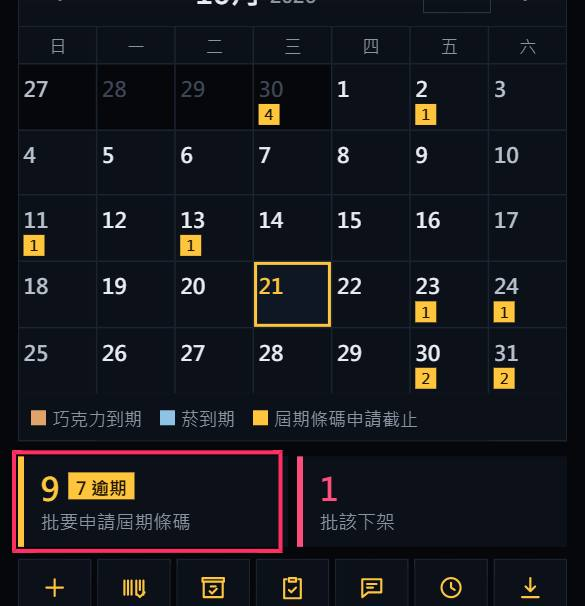
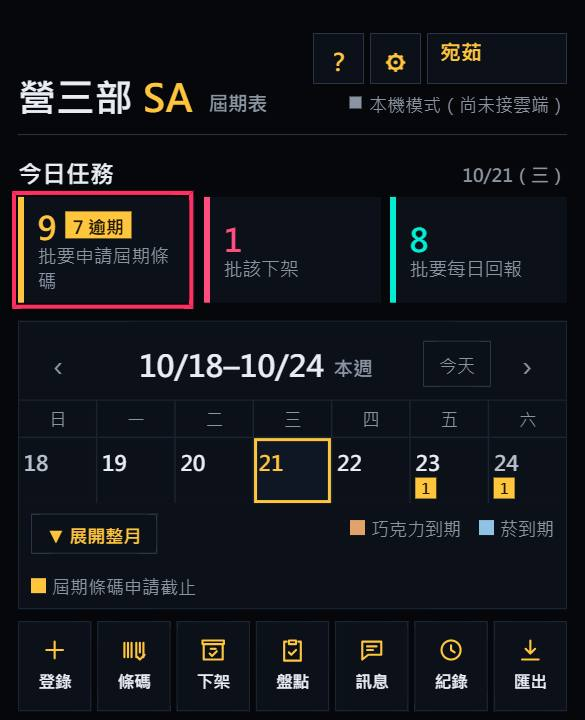
Add files via upload

diff --git a/index.html b/index.html
@@ -315,6 +315,36 @@ header{position:sticky;top:0;z-index:10;background:var(--ground);padding-top:8px
 .padd{width:56px;height:44px;background:var(--gold);color:#241900;font-weight:900;font-size:20px;flex:none}
 .gst .gimg{grid-column:1/-1;display:block;width:100%;height:auto;margin-top:6px;border:1px solid var(--edge);background:var(--ground);cursor:zoom-in;min-height:120px}
 .lb{z-index:80}
+.byl{margin:10px 0 8px;font-size:12.5px;color:var(--faint)}
+.byl b{color:var(--gold);font-size:15px;margin-right:8px}
+.bylbox{height:44px;display:flex;align-items:center;padding:0 10px;border:1px solid var(--edge);color:var(--gold);font-weight:900}
+.prow{grid-template-columns:26px 40px 1fr auto}
+.rgo{height:38px;padding:0 10px;font-weight:900;font-size:13px;border:1px solid var(--edge);white-space:nowrap}
+.rgo.qap{background:var(--gold);color:#241900;border-color:var(--gold)}
+.rgo.qp{background:var(--r1);color:#2b0411;border-color:var(--r1)}
+.rgo[data-ok]{background:#fff;color:#2b0411;border-color:#fff}
+.tdh{display:flex;justify-content:space-between;align-items:baseline;margin-top:12px;font-size:16px;font-weight:900}
+.tdh small{font-size:12px;color:var(--faint);font-weight:700}
+.todo{grid-template-columns:repeat(3,1fr);margin-top:6px}
+.todo button{padding:8px 9px}
+.todo .tr{border-color:var(--r3)}.todo .tr b{color:var(--r3)}
+.todo small{display:block;line-height:1.3}
+.ctg{border:1px solid var(--edge);padding:4px 10px;font-weight:900;color:var(--gold);font-size:12px;margin-right:auto}
+.ctab{display:none}
+@media(max-width:599px){
+ .ctab{display:grid;grid-template-columns:1fr 1fr;margin-top:8px;border:1px solid var(--edge)}
+ .ctab button{height:46px;font-weight:900;color:var(--faint);font-size:15px}
+ .ctab button em{font-style:normal;font-size:12px;margin-left:4px;opacity:.85}
+ .ctab button[aria-pressed="true"][data-t="07"]{background:var(--choc);color:#2a1406}
+ .ctab button[aria-pressed="true"][data-t="08"]{background:var(--smoke);color:#06202f}
+ .cols{grid-template-columns:1fr}
+ .cols[data-tab="07"] .col.s,.cols[data-tab="08"] .col.c{display:none}
+ .colhd{display:none}
+ .row{grid-template-columns:46px 1fr;gap:10px;padding:9px 10px}
+ .th{width:46px;height:46px}
+ .nm{font-size:15px}
+ .meta{font-size:13px}
+}
 </style>
 </head>
 <body>
@@ -324,6 +354,7 @@ header{position:sticky;top:0;z-index:10;background:var(--ground);padding-top:8px
     <div class="who"><div class="wrow"><button class="hbtn" id="help" aria-label="新手教學">？</button><button class="hbtn" id="setb" aria-label="設定">⚙</button><select id="who" aria-label="操作人"></select></div><div class="sync" id="sync"><i></i><span>本機</span></div></div>
   </header>
 
+  <div id="welcome"></div>
   <section class="cal" aria-label="月行事曆">
     <div class="calhd">
       <button class="nb" id="prev" aria-label="上個月">‹</button>
@@ -331,10 +362,9 @@ header{position:sticky;top:0;z-index:10;background:var(--ground);padding-top:8px
       <div style="display:flex;gap:4px;align-items:center"><button class="tday" id="tday">今天</button><button class="nb" id="next" aria-label="下個月">›</button></div>
     </div>
     <div class="grid" id="grid"></div>
-    <div class="calft"><span class="lc">巧克力到期</span><span class="ls">菸到期</span><span class="la">屆期條碼申請截止</span></div>
+    <div class="calft"><button class="ctg" id="ctg"></button><span class="lc">巧克力到期</span><span class="ls">菸到期</span><span class="la">屆期條碼申請截止</span></div>
   </section>
 
-  <div id="welcome"></div>
   <div class="tools">
     <button class="tb" id="tAdd" data-k="add"><svg viewBox="0 0 24 24"><path d="M12 5v14M5 12h14"/></svg>登錄</button>
     <button class="tb" id="tApply" data-k="apply"><svg viewBox="0 0 24 24"><path d="M4 6v12M7 6v12M10 6v12M14 6v12M17 6v8M20 6v12"/><path d="m15 18 2 2 4-4"/></svg>條碼</button>
@@ -355,6 +385,7 @@ header{position:sticky;top:0;z-index:10;background:var(--ground);padding-top:8px
   <div class="sum" id="sum"></div>
   <div class="search"><input id="q" type="search" placeholder="找品名、品號、品牌" aria-label="搜尋"></div>
 
+  <div class="ctab" id="ctab"><button data-t="07"><b>07</b> 巧克力<em id="ccn"></em></button><button data-t="08"><b>08</b> 菸類<em id="scn"></em></button></div>
   <div class="cols">
     <section class="col c" aria-label="07 大類 巧克力"><div class="colhd"><h3><b>07</b> 巧克力</h3><small id="cc"></small></div><div id="L"></div></section>
     <section class="col s" aria-label="08 大類 菸"><div class="colhd"><h3><b>08</b> 菸類</h3><small id="sc"></small></div><div id="R"></div></section>
@@ -393,11 +424,12 @@ let lots=[],logs=[],photos={};
 let DB=null,DL=null;
 const today=new Date();today.setHours(0,0,0,0);
 let view=new Date(today.getFullYear(),today.getMonth(),1);
+const wkOf=d=>addD(d,-d.getDay());let calOpen=false;try{calOpen=localStorage.getItem("sa_exp_cal")==="1"}catch(e){}let wk=wkOf(today);
 let sel=new Date(today);
 let mode="near",bucket=null,counting=false,draft={},q="",storeF="";
 let lastBy=localStorage.getItem("sa_exp_by")||"";
 let lastStore=localStorage.getItem("sa_exp_store")||"";
-const remember=by=>{lastBy=by;localStorage.setItem("sa_exp_by",by);const w=document.getElementById("who");if(w){if(w.value!==by)w.value=by;w.classList.toggle("need",!by)}};
+const remember=by=>{lastBy=by;localStorage.setItem("sa_exp_by",by);document.querySelectorAll(".bylv").forEach(e=>e.textContent=by||"未選");const w=document.getElementById("who");if(w){if(w.value!==by)w.value=by;w.classList.toggle("need",!by)}};
 
 /* ---------- storage：Google 試算表（Apps Script） ---------- */
 const API="https://script.google.com/macros/s/AKfycbxwsx9JJLaUBCJdC2WS5k9eKBrx1b5OHH1FhyA9XReiPYkMi2cek3Pvxswy2selR46l/exec",KEY="sa-exp-2026",LSK="sa_exp_cache_v1";
@@ -459,23 +491,27 @@ function nextApply(l){if(!live(l))return null;for(const k of [3,2,1]){const e=en
 /* ---------- calendar ---------- */
 function renderCal(){
   const y=view.getFullYear(),m=view.getMonth();
-  $("#mlabel").innerHTML=(m+1)+"月<small>"+y+"</small>";
-  const first=new Date(y,m,1),start=addD(first,-first.getDay());
+  $("#mlabel").innerHTML=calOpen?(m+1)+"月<small>"+y+"</small>":mdS(wk)+"–"+mdS(addD(wk,6))+"<small>"+(+wk===+wkOf(today)?"本週":"")+"</small>";
+  $("#ctg").textContent=calOpen?"▲ 收成一週":"▼ 展開整月";
+  const first=new Date(y,m,1),start=calOpen?addD(first,-first.getDay()):wk;
   const byDay={},bump=(k,t)=>{(byDay[k]=byDay[k]||{c:0,s:0,a:0})[t]++};
   lots.forEach(l=>{if(!live(l)||!inStore(l))return;bump(l.exp,l.cat==="07"?"c":"s");for(const k of [1,2,3]){if(!(l.apply&&l.apply[k])){const e=enterDate(l,k);if(e<pd(l.exp))bump(ymd(e),"a")}}});
   let h=W.split("").map(w=>`<div class="wk">${w}</div>`).join("");
-  for(let i=0;i<42;i++){
+  for(let i=0;i<(calOpen?42:7);i++){
     const d=addD(start,i),k=ymd(d),b=byDay[k];
-    if(i>=35&&d.getMonth()!==m)break;
-    const cls=["d",d.getMonth()!==m?"o":"",d.getDay()===0?"sun":"",d.getDay()===6?"sat":"",+d===+today?"today":"",+d===+sel?"sel":""].join(" ");
+    if(calOpen&&i>=35&&d.getMonth()!==m)break;
+    const cls=["d",calOpen&&d.getMonth()!==m?"o":"",d.getDay()===0?"sun":"",d.getDay()===6?"sat":"",+d===+today?"today":"",+d===+sel?"sel":""].join(" ");
     h+=`<button class="${cls}" data-d="${k}" aria-label="${k}"><span class="n">${d.getDate()}</span><span class="marks">${b&&b.c?`<span class="mk c">${b.c}</span>`:""}${b&&b.s?`<span class="mk s">${b.s}</span>`:""}${b&&b.a?`<span class="mk a">${b.a}</span>`:""}</span></button>`;
   }
   $("#grid").innerHTML=h;
 }
 $("#grid").onclick=e=>{const b=e.target.closest("[data-d]");if(!b)return;sel=pd(b.dataset.d);if(sel.getMonth()!==view.getMonth())view=new Date(sel.getFullYear(),sel.getMonth(),1);bucket=null;mode="near";render()};
-$("#prev").onclick=()=>{view=new Date(view.getFullYear(),view.getMonth()-1,1);renderCal()};
-$("#next").onclick=()=>{view=new Date(view.getFullYear(),view.getMonth()+1,1);renderCal()};
-$("#tday").onclick=()=>{sel=new Date(today);view=new Date(today.getFullYear(),today.getMonth(),1);bucket=null;render()};
+$("#prev").onclick=()=>{if(calOpen)view=new Date(view.getFullYear(),view.getMonth()-1,1);else wk=addD(wk,-7);renderCal()};
+$("#next").onclick=()=>{if(calOpen)view=new Date(view.getFullYear(),view.getMonth()+1,1);else wk=addD(wk,7);renderCal()};
+$("#ctg").onclick=()=>{calOpen=!calOpen;try{localStorage.setItem("sa_exp_cal",calOpen?"1":"0")}catch(e){}if(calOpen){const md=addD(wk,3);view=new Date(md.getFullYear(),md.getMonth(),1)}else wk=wkOf(sel);renderCal()};
+$("#tday").onclick=()=>{sel=new Date(today);wk=wkOf(today);view=new Date(today.getFullYear(),today.getMonth(),1);bucket=null;render()};
+let ctab="07";try{ctab=localStorage.getItem("sa_exp_tab")||"07"}catch(e){}
+$("#ctab").onclick=e=>{const b=e.target.closest("[data-t]");if(!b)return;ctab=b.dataset.t;try{localStorage.setItem("sa_exp_tab",ctab)}catch(e){}render()};
 $("#sseg").onclick=e=>{const b=e.target.closest("button");if(!b)return;storeF=b.dataset.s;render()};
 
 /* ---------- lists ---------- */
@@ -510,15 +546,15 @@ function render(){
   $("#sum").innerHTML=[1,2,3].map((i,k)=>`<button class="b${i}" data-b="${i}" aria-pressed="${mode==="near"&&bucket===i}"><b>${n[k]}</b><small>${["一個月內","一到兩個月","兩到三個月"][k]}</small></button>`).join("")+`<button class="b0" data-b="all" aria-pressed="${mode==="all"}"><b>${act.length}</b><small>全部在庫</small></button>`;
   const L=filtered("07"),R=filtered("08");
   $("#L").innerHTML=colHTML(L);$("#R").innerHTML=colHTML(R);
-  $("#cc").textContent=L.length+" 批";$("#sc").textContent=R.length+" 批";
+  $("#cc").textContent=L.length+" 批";$("#ccn").textContent=L.length+" 批";$("#scn").textContent=R.length+" 批";document.querySelector(".cols").dataset.tab=ctab;document.querySelectorAll("#ctab button").forEach(b=>b.setAttribute("aria-pressed",b.dataset.t===ctab));$("#sc").textContent=R.length+" 批";
   const dueN=lots.filter(l=>live(l)&&duePull(l)).length,apN=lots.filter(needApply).length,apL=lots.filter(l=>{const a=needApply(l);return a&&a.late}).length;
-  let w="";
+  let w="";const repN=lots.filter(l=>live(l)&&bkt(l,today)>=1&&bkt(l,today)<=3).length;
   const apNow=lots.filter(needApply).length;
-  if(lots.length)w=`<div class="todo"><button class="${apNow?"ta":"z"}" id="goapply" aria-pressed="${panelKey==="apply"}"><b>${apNow}${apL?`<em>${apL} 逾期</em>`:""}</b><small>${apNow?"批要申請屆期條碼":"條碼申請沒有待辦"}</small></button><button class="${dueN?"tp":"z"}" id="gopull" aria-pressed="${panelKey==="pull"}"><b>${dueN}</b><small>${dueN?"批該下架":"下架沒有待辦"}</small></button></div>`+(lots.some(l=>l.demo)?`<div class="demo-bar"><span>目前是示範資料，正式使用前請清掉</span><button id="undemo">清除示範資料</button></div>`:"");
+  if(lots.length)w=`<div class="tdh">今日任務<small>${mdS(today)}（${W[today.getDay()]}）</small></div><div class="todo"><button class="${apNow?"ta":"z"}" id="goapply" aria-pressed="${panelKey==="apply"}"><b>${apNow}${apL?`<em>${apL} 逾期</em>`:""}</b><small>${apNow?"批要申請屆期條碼":"條碼申請沒有待辦"}</small></button><button class="${dueN?"tp":"z"}" id="gopull" aria-pressed="${panelKey==="pull"}"><b>${dueN}</b><small>${dueN?"批該下架":"下架沒有待辦"}</small></button><button class="${repN?"tr":"z"}" id="gomsg" aria-pressed="${panelKey==="msg"}"><b>${repN}</b><small>${repN?"批要每日回報":"回報沒有待辦"}</small></button></div>`+(lots.some(l=>l.demo)?`<div class="demo-bar"><span>目前是示範資料，正式使用前請清掉</span><button id="undemo">清除示範資料</button></div>`:"");
   else if(!lots.length)w=`<div class="welcome"><b>還沒有任何效期資料</b>按下方「登錄」開始；巧克力可直接從 ${CAT.length} 項商品檔案挑選，附實品圖與售價。<br><button id="demo">先放幾筆示範資料看看</button></div>`;
   $("#welcome").innerHTML=w;
   const on=(id,f)=>{const b=$(id);if(b)b.onclick=f};
-  on("#gopull",()=>pullPanel(false,false));on("#goapply",()=>applyPanel(false,false));on("#demo",demo);on("#undemo",undemo);
+  on("#gopull",()=>pullPanel(false,false));on("#gomsg",()=>msgSheet(false));on("#goapply",()=>applyPanel(false,false));on("#demo",demo);on("#undemo",undemo);
   const chg=Object.keys(draft).filter(k=>{const l=lots.find(x=>x.id===k);return l&&+draft[k]!==l.qty}).length;
   const ct=$("#ctext");if(ct)ct.textContent=chg?`已改 ${chg} 批`:"尚未修改任何數量";
 }
@@ -553,7 +589,8 @@ function openSheet(h){$("#sheet").innerHTML=h;$("#mask").classList.add("on");con
 function closeSheet(){$("#mask").classList.remove("on")}
 let panelKey="";
 function openPanel(k,h,force,noScroll){const p=$("#panel");if(!force&&panelKey===k&&p.classList.contains("on")){closePanel();return false}if(panelKey==="count"&&k!=="count"){counting=false;draft={};render()}panelKey=k;p.innerHTML=h;p.classList.add("on");document.body.classList.add("pon");document.querySelectorAll(".tools .tb").forEach(b=>b.setAttribute("aria-pressed",b.dataset.k===k));const x=p.querySelector(".x");if(x)x.onclick=closePanel;syncTodo();if(!noScroll)jumpTo(p);return true}
-function syncTodo(){const a=$("#goapply"),b=$("#gopull");if(a)a.setAttribute("aria-pressed",panelKey==="apply");if(b)b.setAttribute("aria-pressed",panelKey==="pull")}
+$("#panel").addEventListener("click",e=>{const b=e.target.closest(".rgo");if(!b)return;e.preventDefault();e.stopPropagation();quick(b)});
+function syncTodo(){const a=$("#goapply"),b=$("#gopull");if(a)a.setAttribute("aria-pressed",panelKey==="apply");if(b)b.setAttribute("aria-pressed",panelKey==="pull");const c=$("#gomsg");if(c)c.setAttribute("aria-pressed",panelKey==="msg")}
 function jumpTo(el){requestAnimationFrame(()=>requestAnimationFrame(()=>{const sm=!matchMedia("(prefers-reduced-motion: reduce)").matches;try{el.scrollIntoView({behavior:sm?"smooth":"auto",block:"start"})}catch(e){el.scrollIntoView(true)}const off=(document.querySelector("header").offsetHeight||0)+8,y=el.getBoundingClientRect().top+window.scrollY-off;setTimeout(()=>{if(Math.abs(el.getBoundingClientRect().top-off)>40)window.scrollTo(0,y)},sm?450:0)}))}
 function closePanel(){const p=$("#panel");p.classList.remove("on");document.body.classList.remove("pon");p.innerHTML="";const wasCount=panelKey==="count";panelKey="";document.querySelectorAll(".tools .tb").forEach(b=>b.setAttribute("aria-pressed",false));syncTodo();if(wasCount){counting=false;draft={};mode="near";render()}}
 function refreshPanel(){if(panelKey==="pull")pullPanel(true,true);else if(panelKey==="apply")applyPanel(true,true)}
@@ -593,7 +630,7 @@ function addSheet(pre){
   <div class="f" id="phf" style="display:none"><label>照片（選填，拍一次之後同品名都會用）</label><input id="aph" type="file" accept="image/*" capture="environment" style="padding-top:9px"></div>
   <div class="f2"><div class="f"><label id="aexpl">有效日期</label><div class="ein"><input id="aexpt" inputmode="numeric" autocomplete="off" enterkeyhint="next"><button type="button" class="cal1" id="aexpb" aria-label="用日曆選">📅</button><input id="aexp" type="date" class="hid" tabindex="-1"><input id="aexpm" type="month" class="hid" tabindex="-1"></div><small class="ev" id="aexpv"></small></div><div class="f"><label>數量</label><input id="aqty" type="number" inputmode="numeric" min="1" value="1"></div></div>
   <div class="f2"><div class="f"><label>售價（選填）</label><input id="aprice" type="number" inputmode="numeric" min="0" placeholder="例：380" value="${pre&&pre.price||""}"></div><div class="f"><label>屆期折扣（選填）</label><select id="adisc">${discOpts(pre&&pre.disc)}</select></div></div>
-  <div class="f"><label>登錄人</label><select id="aby">${peopleOpts(lastBy)}</select></div>
+  <p class="byl">操作人：<b class="bylv">${esc(lastBy)||"未選"}</b><small>右上角可換人</small></p>
   <div class="hint" id="ahint"></div>
   <div class="go2"><button class="go" id="asave">存入，登下一批</button><button class="ghost" id="adone">存入並關閉</button></div>
   <div class="sess" id="asess"></div>`,!!pre))return;
@@ -630,9 +667,9 @@ function addSheet(pre){
   const renderSess=()=>{$("#asess").innerHTML=sess.length?`<div class="tier">這次已登 ${sess.length} 批</div>`+sess.map(x=>`<div class="it"><span>${x.store} ${x.cat==="07"?"🍫":"🚬"} ${esc(x.name)}</span><small>${fx(x)} × ${x.qty}</small></div>`).join(""):""};
   const reset=()=>{picked=null;newImg="";$("#aname").value="";$("#aqty").value=1;$("#aprice").value="";$("#aph").value="";showPicked();$("#aname").focus()};
   const save=async keep=>{
-    const store=segVal("ast"),name=$("#aname").value.trim(),exp=expVal(),qty=parseInt($("#aqty").value,10),by=$("#aby").value,price=parseInt($("#aprice").value,10)||"",disc=$("#adisc").value;
+    const store=segVal("ast"),name=$("#aname").value.trim(),exp=expVal(),qty=parseInt($("#aqty").value,10),by=lastBy,price=parseInt($("#aprice").value,10)||"",disc=$("#adisc").value;
     if(!keep&&!name&&sess.length)return closePanel();
-    if(!store)return toast("請選店別");if(!name)return toast("請填品名");if(!exp)return toast(cat==="07"?"請選有效日期":"請選有效年月");if(!(qty>0))return toast("數量要大於 0");if(!by)return toast("請選登錄人");
+    if(!store)return toast("請選店別");if(!name)return toast("請填品名");if(!exp)return toast(cat==="07"?"請選有效日期":"請選有效年月");if(!(qty>0))return toast("數量要大於 0");if(!by)return needWho();
     const nm=picked?picked.n:name,dup=lots.find(x=>live(x)&&x.store===store&&x.cat===cat&&x.name===nm&&x.exp===exp),sb=keep?$("#asave"):$("#adone");
     if(dup&&!sb.dataset.mg){clrMg();sb.dataset.mg=1;sb.dataset.lab=sb.textContent;sb.textContent=`合併成 ${dup.qty+qty} 個`;toast(`${store} 已有同品項同效期 ${dup.qty} 個，再按一次會合併`);return}
     clrMg();
@@ -663,7 +700,7 @@ function openLot(id){
   <div class="f"><label>店別</label>${storeSeg("est",l.store)}</div>
   <div class="f"><label>有效${l.cat==="08"?"年月":"日期"}（打錯可直接改）</label><input id="ee" inputmode="numeric" autocomplete="off" value="${fx(l)}"><small class="ev" id="eev"></small></div>
   <div class="f2"><div class="f"><label>數量</label><input id="eq" type="number" inputmode="numeric" min="0" value="${l.qty}"></div><div class="f"><label>售價</label><input id="ep" type="number" inputmode="numeric" min="0" value="${l.price||""}"></div></div>
-  <div class="f2"><div class="f"><label>屆期折扣</label><select id="ed">${discOpts(l.disc)}</select></div><div class="f"><label>修改人</label><select id="eby">${peopleOpts(lastBy)}</select></div></div>
+  <div class="f2"><div class="f"><label>屆期折扣</label><select id="ed">${discOpts(l.disc)}</select></div><div class="f"><label>操作人</label><div class="bylbox bylv">${esc(lastBy)||"未選"}</div></div></div>
   <button class="go" id="esave">存修改</button>
   ${live(l)?`<button class="ghost" id="epull" style="border-color:var(--gold);color:var(--gold)">確認下架這批</button>`:""}
   <button class="ghost" id="eagain">同品項再登一批</button>
@@ -673,17 +710,17 @@ function openLot(id){
   $("#ee").oninput=()=>{const e=parseExp($("#ee").value,l.cat),o=$("#eev");o.textContent=e?(e===l.exp?"":"→ 改成 "+fx({...l,exp:e})+"（條碼申請紀錄會重算）"):"看不懂這個效期";o.className="ev "+(e?"ok":"bad")};
   const bi=$("#bigimg");if(bi)bi.onclick=()=>zoom(im,l.name,fx(l)+"　× "+l.qty);
   $("#eph").onchange=async e=>{const f=e.target.files[0];if(!f)return;try{await putPhoto(pkey(l),await shrink(f));toast("照片已更新");closeSheet()}catch(err){toast("照片沒存成功")}};
-  $("#esave").onclick=async()=>{const q2=parseInt($("#eq").value,10),by=$("#eby").value,price=parseInt($("#ep").value,10)||"",disc=$("#ed").value,store=segVal("est"),ex=parseExp($("#ee").value,l.cat);if(!ex)return toast("效期看不懂");if(!(q2>=0))return toast("數量不對");if(!by)return toast("請選修改人");remember(by);
+  $("#esave").onclick=async()=>{const q2=parseInt($("#eq").value,10),by=lastBy,price=parseInt($("#ep").value,10)||"",disc=$("#ed").value,store=segVal("est"),ex=parseExp($("#ee").value,l.cat);if(!ex)return toast("效期看不懂");if(!(q2>=0))return toast("數量不對");if(!by)return needWho();remember(by);
     if(q2===l.qty&&price===(l.price||"")&&disc===(l.disc||"")&&store===(l.store||"")&&ex===l.exp)return closeSheet();
     const nl={...l,qty:q2,price,disc,store,exp:ex};if(ex!==l.exp)delete nl.apply;await putLot(nl);const ch=[];if(ex!==l.exp)ch.push("效期 "+fx(l)+"→"+fx(nl));if(q2!==l.qty)ch.push("數量");if(price!==(l.price||""))ch.push("售價 "+(price||"—"));if(disc!==(l.disc||""))ch.push("折扣 "+(disc||"無"));if(store!==(l.store||""))ch.push("店別 "+store);
     await putLog({id:uid(),t:"修改",lot:l.id,cat:l.cat,name:l.name+"（"+ch.join("、")+"）",exp:l.exp,from:l.qty,to:q2,by,at:Date.now()});closeSheet();toast("已更新")};
-  const ep=$("#epull");if(ep)ep.onclick=async()=>{const by=$("#eby").value;if(!by)return toast("請先選修改人（下架人）");remember(by);await doPull([l],by);closeSheet()};
+  const ep=$("#epull");if(ep)ep.onclick=async()=>{const by=lastBy;if(!by)return needWho();remember(by);await doPull([l],by);closeSheet()};
   $("#eagain").onclick=()=>(closeSheet(),addSheet({cat:l.cat,code:l.code,name:l.name,store:l.store,price:l.price,disc:l.disc}));
-  $("#edel").onclick=async()=>{const by=$("#eby").value;if(!by)return toast("請先選修改人");const eb=$("#edel");if(!eb.dataset.ok){eb.dataset.ok=1;eb.textContent="再按一次確認刪除";return}await delLot(l.id);await putLog({id:uid(),t:"刪除",lot:l.id,cat:l.cat,name:l.name,exp:l.exp,from:l.qty,to:0,by,at:Date.now()});closeSheet();toast("已刪除："+l.name,async()=>{try{await putLot(l);await putLog({id:uid(),t:"復原刪除",lot:l.id,cat:l.cat,name:l.name,exp:l.exp,from:0,to:l.qty,by,at:Date.now()});toast("已復原")}catch(e){toast("復原沒成功")}})};
+  $("#edel").onclick=async()=>{const by=lastBy;if(!by)return needWho();const eb=$("#edel");if(!eb.dataset.ok){eb.dataset.ok=1;eb.textContent="再按一次確認刪除";return}await delLot(l.id);await putLog({id:uid(),t:"刪除",lot:l.id,cat:l.cat,name:l.name,exp:l.exp,from:l.qty,to:0,by,at:Date.now()});closeSheet();toast("已刪除："+l.name,async()=>{try{await putLot(l);await putLog({id:uid(),t:"復原刪除",lot:l.id,cat:l.cat,name:l.name,exp:l.exp,from:0,to:l.qty,by,at:Date.now()});toast("已復原")}catch(e){toast("復原沒成功")}})};
 }
 
 /* ---------- shared checklist panel ---------- */
-function checkRows(a,selMap,extra){return a.map(l=>{const im=imgOf(l),left=diff(today,pd(l.exp));return `<label class="prow"><input type="checkbox" data-p="${l.id}" ${selMap[l.id]?"checked":""}><span class="th">${im?`<img src="${im}" alt="" loading="lazy">`:"無圖"}</span><span><b>${esc(l.name)}</b><small>${l.store||"店別?"}　${l.cat==="07"?"巧克力":"菸類"}　效期 ${fx(l)}　× ${l.qty}<br>${left<0?"已過期 "+(-left)+" 天":"剩 "+left+" 天"}${extra(l)}</small></span></label>`}).join("")}
+function checkRows(a,selMap,extra,btn){return a.map(l=>{const im=imgOf(l),left=diff(today,pd(l.exp));return `<label class="prow"><input type="checkbox" data-p="${l.id}" ${selMap[l.id]?"checked":""}><span class="th">${im?`<img src="${im}" alt="" loading="lazy">`:"無圖"}</span><span><b>${esc(l.name)}</b><small>${l.store||"店別?"}　${l.cat==="07"?"巧克力":"菸類"}　效期 ${fx(l)}　× ${l.qty}<br>${left<0?"已過期 "+(-left)+" 天":"剩 "+left+" 天"}${extra(l)}</small></span>${btn?btn(l):""}</label>`}).join("")}
 function wireChecks(a,selMap,btnId,label){
   const P=$("#panel"),upd=()=>{const n=Object.keys(selMap).length,b=$("#"+btnId);if(b)b.textContent=n?`${label} ${n} 批`:"先勾選批次";const pa=$("#pa");if(pa)pa.checked=n&&n===a.length};
   P.querySelectorAll("[data-p]").forEach(c=>c.onchange=()=>{c.checked?selMap[c.dataset.p]=1:delete selMap[c.dataset.p];upd()});
@@ -702,16 +739,16 @@ function pullPanel(force,noScroll){
   const done=lots.filter(l=>l.pulled).sort((x,y)=>y.pulled.at-x.pulled.at).slice(0,30),nSel=Object.keys(pullSel).length;
   const h=`<h4>下架管理<button class="x" aria-label="關閉">×</button></h4>
   <div class="seg" id="pf" style="margin-bottom:10px"><button data-f="0" aria-pressed="${!pullAll}" style="flex:1">該下架（${dueAll.length}）</button><button data-f="1" aria-pressed="${pullAll}" style="flex:1">全部品項</button></div>
-  ${a.length?`<label class="pall"><input type="checkbox" id="pa" ${nSel&&nSel===a.length?"checked":""}>全選（${a.length} 批）</label><div>${checkRows(a,pullSel,l=>{const p=pullDate(l);return p?`　下架日 ${mdS(p)}`:""})}</div>
-  <div class="f" style="margin-top:12px"><label>下架人</label><select id="pby">${peopleOpts(lastBy)}</select></div>
+  ${a.length?`<label class="pall"><input type="checkbox" id="pa" ${nSel&&nSel===a.length?"checked":""}>全選（${a.length} 批）</label><div>${checkRows(a,pullSel,l=>{const p=pullDate(l);return p?`　下架日 ${mdS(p)}`:""},l=>`<button class="rgo qp" data-qp="${l.id}">下架</button>`)}</div>
+  <p class="byl">操作人：<b class="bylv">${esc(lastBy)||"未選"}</b><small>右上角可換人</small></p>
   <button class="go" id="pgo">${nSel?`確認下架 ${nSel} 批`:"先勾選批次"}</button>`:`<p class="hint" style="padding:6px 0">${pullAll?"沒有在庫的批次":"目前沒有該下架的批次"}</p>`}
   <div class="grp g4" style="margin-top:18px;padding-left:0;padding-right:0"><span>最近下架</span><span>${done.length} 批</span></div>
   <div class="log">${done.length?done.map(l=>`<div><span><b>${esc(l.name)}</b><br><small>${l.store||""}　效期 ${fx(l)}　× ${l.qty}</small></span><span style="text-align:right"><small>${esc(l.pulled.by)}　${stamp(l.pulled.at)}</small><br><button class="undo" data-u="${l.id}">復原</button></span></div>`).join(""):`<p class="hint">還沒有下架紀錄</p>`}</div>`;
   if(!openPanel("pull",h,force,noScroll))return;
   wireChecks(a,pullSel,"pgo","確認下架");
   $("#panel").querySelectorAll("#pf button").forEach(b=>b.onclick=()=>{pullAll=b.dataset.f==="1";pullSel={};pullPanel(true,true)});
-  const go=$("#pgo");if(go)go.onclick=async()=>{const ids=Object.keys(pullSel);if(!ids.length)return toast("請先勾選要下架的批次");const by=$("#pby").value;if(!by)return toast("請選下架人");remember(by);go.disabled=true;go.textContent="下架中…";try{await doPull(ids.map(i=>lots.find(l=>l.id===i)).filter(Boolean),by);pullSel={}}catch(e){toast("沒存成功："+(e.code||e.message))}pullPanel(true,true)};
-  $("#panel").querySelectorAll("[data-u]").forEach(b=>b.onclick=async()=>{const l=lots.find(x=>x.id===b.dataset.u);if(!l)return;if(!b.dataset.ok){b.dataset.ok=1;b.textContent="再按一次復原";return}const{pulled,...r}=l;await putLot(r);await putLog({id:uid(),t:"復原下架",lot:l.id,cat:l.cat,name:l.name,exp:l.exp,from:0,to:l.qty,by:($("#pby")&&$("#pby").value)||lastBy||"—",at:Date.now()});pullPanel(true,true);toast("已復原："+l.name)});
+  const go=$("#pgo");if(go)go.onclick=async()=>{const ids=Object.keys(pullSel);if(!ids.length)return toast("請先勾選要下架的批次");const by=lastBy;if(!by)return needWho();remember(by);go.disabled=true;go.textContent="下架中…";try{await doPull(ids.map(i=>lots.find(l=>l.id===i)).filter(Boolean),by);pullSel={}}catch(e){toast("沒存成功："+(e.code||e.message))}pullPanel(true,true)};
+  $("#panel").querySelectorAll("[data-u]").forEach(b=>b.onclick=async()=>{const l=lots.find(x=>x.id===b.dataset.u);if(!l)return;if(!b.dataset.ok){b.dataset.ok=1;b.textContent="再按一次復原";return}const{pulled,...r}=l;await putLot(r);await putLog({id:uid(),t:"復原下架",lot:l.id,cat:l.cat,name:l.name,exp:l.exp,from:0,to:l.qty,by:lastBy||lastBy||"—",at:Date.now()});pullPanel(true,true);toast("已復原："+l.name)});
 }
 $("#tPull").onclick=()=>pullPanel(false,false);
 
@@ -726,8 +763,8 @@ function applyPanel(force,noScroll){
   const groups=[3,2,1].map(k=>[k,a.filter(l=>needApply(l).k===k)]).filter(g=>g[1].length);
   const h=`<h4>屆期條碼申請<button class="x" aria-label="關閉">×</button></h4>
   <p class="hint" style="margin:-4px 0 10px">到期前 3、2、1 個月各申請一次，進入前一週要申請好。</p>
-  ${a.length?`<label class="pall"><input type="checkbox" id="pa" ${nSel&&nSel===a.length?"checked":""}>全選（${a.length} 批）</label>${groups.map(([k,g])=>`<div class="tier">進入 ${k} 個月　${g.length} 批</div>`+checkRows(g,apSel,l=>{const n=needApply(l);return n.late?`<br><span class="ap late">已進入 ${k} 個月，未申請</span>`:`<br><span class="ap">${mdS(n.enter)}（${W[n.enter.getDay()]}）前申請</span>`})).join("")}
-  <div class="f" style="margin-top:12px"><label>申請人</label><select id="pby">${peopleOpts(lastBy)}</select></div>
+  ${a.length?`<label class="pall"><input type="checkbox" id="pa" ${nSel&&nSel===a.length?"checked":""}>全選（${a.length} 批）</label>${groups.map(([k,g])=>`<div class="tier">進入 ${k} 個月　${g.length} 批</div>`+checkRows(g,apSel,l=>{const n=needApply(l);return n.late?`<br><span class="ap late">已進入 ${k} 個月，未申請</span>`:`<br><span class="ap">${mdS(n.enter)}（${W[n.enter.getDay()]}）前申請</span>`},l=>`<button class="rgo qap" data-qap="${l.id}">已申請</button>`)).join("")}
+  <p class="byl">操作人：<b class="bylv">${esc(lastBy)||"未選"}</b><small>右上角可換人</small></p>
   <button class="go" id="ago">${nSel?`確認已申請 ${nSel} 批`:"先勾選批次"}</button>`:`<p class="hint" style="padding:6px 0">這週沒有要申請的。</p>`}
   <div class="grp g4" style="margin-top:18px;padding-left:0;padding-right:0"><span>接下來三週</span><span>${soon.length} 批</span></div>
   <div class="log">${soon.length?soon.map(([l,n])=>`<div><span><b>${esc(l.name)}</b><br><small>${l.store||""}　效期 ${fx(l)}　× ${l.qty}</small></span><span style="text-align:right"><small>${n.k} 個月</small><br><small>${mdS(n.start)}～${mdS(n.enter)}</small></span></div>`).join(""):`<p class="hint">三週內沒有新的申請。</p>`}</div>
@@ -735,7 +772,7 @@ function applyPanel(force,noScroll){
   <div class="log">${done.length?done.slice(0,30).map(([l,k,v])=>`<div><span><b>${esc(l.name)}</b><br><small>${l.store||""}　效期 ${fx(l)}　${k} 個月</small></span><span style="text-align:right"><small>${esc(v.by)}　${stamp(v.at)}</small><br><button class="undo" data-ua="${l.id}|${k}">復原</button></span></div>`).join(""):`<p class="hint">還沒有申請紀錄</p>`}</div>`;
   if(!openPanel("apply",h,force,noScroll))return;
   wireChecks(a,apSel,"ago","確認已申請");
-  const go=$("#ago");if(go)go.onclick=async()=>{const ids=Object.keys(apSel);if(!ids.length)return toast("請先勾選已申請的批次");const by=$("#pby").value;if(!by)return toast("請選申請人");remember(by);go.disabled=true;go.textContent="儲存中…";const at=Date.now();
+  const go=$("#ago");if(go)go.onclick=async()=>{const ids=Object.keys(apSel);if(!ids.length)return toast("請先勾選已申請的批次");const by=lastBy;if(!by)return needWho();remember(by);go.disabled=true;go.textContent="儲存中…";const at=Date.now();
     try{for(const id of ids){const l=lots.find(x=>x.id===id),n=l&&needApply(l);if(!n)continue;await putLot({...l,apply:{...(l.apply||{}),[n.k]:{by,at}}});await putLog({id:uid(),t:`申請屆期條碼（${n.k}個月）`,lot:l.id,cat:l.cat,name:l.name,exp:l.exp,from:l.qty,to:l.qty,by,at})}apSel={};toast(`已記錄 ${ids.length} 批申請（${by}）`)}catch(e){toast("沒存成功："+(e.code||e.message))}applyPanel(true,true)};
   $("#panel").querySelectorAll("[data-ua]").forEach(b=>b.onclick=async()=>{const[id,k]=b.dataset.ua.split("|"),l=lots.find(x=>x.id===id);if(!l)return;if(!b.dataset.ok){b.dataset.ok=1;b.textContent="再按一次復原";return}const ap={...(l.apply||{})};delete ap[k];await putLot({...l,apply:ap});await putLog({id:uid(),t:`取消條碼申請（${k}個月）`,lot:l.id,cat:l.cat,name:l.name,exp:l.exp,from:l.qty,to:l.qty,by:lastBy||"—",at:Date.now()});applyPanel(true,true)});
 }
@@ -743,9 +780,9 @@ $("#tApply").onclick=()=>applyPanel(false,false);
 
 /* ---------- count / log / export ---------- */
 $("#tAdd").onclick=()=>addSheet();
-$("#tCount").onclick=()=>{if(!openPanel("count",`<h4>盤點<button class="x" aria-label="關閉">×</button></h4><p class="hint" style="margin:-4px 0 10px">上方每一批都多了數量格，輸入實點後回到這裡存檔。有改的格子會變黃。</p><p id="ctext" style="font-weight:900;margin-bottom:10px">尚未修改任何數量</p><div class="f"><label>盤點人</label><select id="cby">${peopleOpts(lastBy)}</select></div><button class="go" id="csave">存盤點</button><button class="ghost" id="ccancel">取消盤點</button>`,false,true))return;counting=true;draft={};mode="all";bucket=null;$("#csave").onclick=saveCount;$("#ccancel").onclick=closePanel;render();jumpTo($("#panel"))};
+$("#tCount").onclick=()=>{if(!openPanel("count",`<h4>盤點<button class="x" aria-label="關閉">×</button></h4><p class="hint" style="margin:-4px 0 10px">上方每一批都多了數量格，輸入實點後回到這裡存檔。有改的格子會變黃。</p><p id="ctext" style="font-weight:900;margin-bottom:10px">尚未修改任何數量</p><p class="byl">操作人：<b class="bylv">${esc(lastBy)||"未選"}</b><small>右上角可換人</small></p><button class="go" id="csave">存盤點</button><button class="ghost" id="ccancel">取消盤點</button>`,false,true))return;counting=true;draft={};mode="all";bucket=null;$("#csave").onclick=saveCount;$("#ccancel").onclick=closePanel;render();jumpTo($("#panel"))};
 async function saveCount(){
-  const by=$("#cby").value;if(!by)return toast("請選盤點人");remember(by);
+  const by=lastBy;if(!by)return needWho();remember(by);
   const ch=Object.keys(draft).map(k=>[lots.find(x=>x.id===k),parseInt(draft[k],10)]).filter(([l,v])=>l&&v>=0&&v!==l.qty);
   for(const[l,v]of ch){await putLot({...l,qty:v});await putLog({id:uid(),t:"盤點",lot:l.id,cat:l.cat,name:l.name,exp:l.exp,from:l.qty,to:v,by,at:Date.now()})}
   await putLog({id:uid(),t:"盤點完成",name:`共盤 ${lots.filter(live).length} 批，差異 ${ch.length} 批`,by,at:Date.now(),from:0,to:0});
@@ -822,7 +859,7 @@ function msgSheet(force){
   <div class="tier">訊息預覽</div>
   <textarea class="msg" id="mt" aria-label="訊息內容（可直接修改）"></textarea>
   <p class="hint" id="mhint"></p>
-  <div class="f" id="mbyf" style="margin-top:8px"><label>回報人（有改數量時必選）</label><select id="mby">${peopleOpts(lastBy)}</select></div>
+  <div class="f" id="mbyf" style="margin-top:8px"><p class="byl">操作人：<b class="bylv">${esc(lastBy)||"未選"}</b><small>右上角可換人</small></p></div>
   <button class="go" id="mc">複製訊息</button>`,force,force))return;
   const changed=()=>reportLots().filter(l=>mq(l)!==l.qty);
   const list=()=>{const a=reportLots();$("#mlist").innerHTML=a.length?a.map(l=>{const v=mq(l),d=v-l.qty;return `<div class="mrow"><span class="mn"><b>${l.store||"?"} ${l.cat==="07"?"🍫":"🚬"} ${esc(l.name)}</b><small>${fx(l)}${l.disc?"　⬇"+l.disc:""}　帳上 ${l.qty}${d?`<em class="${d<0?"m":"p"}">${d>0?"+":""}${d}</em>`:""}</small></span><span class="step"><button data-dq="${l.id}" data-v="-1" aria-label="減一">−</button><input data-iq="${l.id}" type="number" inputmode="numeric" min="0" value="${v}" class="${d?"chg":""}" aria-label="今日數量"><button data-dq="${l.id}" data-v="1" aria-label="加一">＋</button></span></div>`}).join(""):`<p class="hint">沒有符合的品項</p>`};
@@ -836,11 +873,11 @@ function msgSheet(force){
   $("#mlist").onclick=e=>{const b=e.target.closest("[data-dq]");if(!b)return;const l=lots.find(x=>x.id===b.dataset.dq);if(!l)return;msgDraft[l.id]=Math.max(0,mq(l)+ +b.dataset.v);const inp=$(`[data-iq="${l.id}"]`);inp.value=msgDraft[l.id];upRow(l);fill()};
   $("#mlist").oninput=e=>{const i=e.target.closest("[data-iq]");if(!i)return;msgDraft[i.dataset.iq]=i.value;const l=lots.find(x=>x.id===i.dataset.iq);if(l)upRow(l);fill()};
   const upRow=l=>{const i=$(`[data-iq="${l.id}"]`);if(!i)return;const d=mq(l)-l.qty;i.classList.toggle("chg",!!d);const sm=i.closest(".mrow").querySelector("small");const em=sm.querySelector("em");if(em)em.remove();if(d)sm.insertAdjacentHTML("beforeend",`<em class="${d<0?"m":"p"}">${d>0?"+":""}${d}</em>`)};
-  $("#mby").onchange=e=>remember(e.target.value);
+  
   const copy=async txt=>{const t=$("#mt");let ok=false;try{await navigator.clipboard.writeText(txt);ok=true}catch(e){}if(!ok){t.focus();t.select();t.setSelectionRange(0,t.value.length);try{ok=document.execCommand("copy")}catch(e){}}return ok};
   $("#mc").onclick=async()=>{
     const txt=$("#mt").value,ch=msgType==="report"?changed():[];
-    if(ch.length){const by=$("#mby").value;if(!by)return toast("有改數量，請先選回報人");remember(by);const at=Date.now();
+    if(ch.length){const by=lastBy;if(!by)return needWho();remember(by);const at=Date.now();
       try{for(const l of ch){const v=mq(l);await putLot({...l,qty:v});await putLog({id:uid(),t:"每日回報扣數",lot:l.id,cat:l.cat,name:l.name,exp:l.exp,from:l.qty,to:v,by,at})}}catch(e){return toast("數量沒存成功："+(e.code||e.message))}
       msgDraft={};}
     const ok=await copy(txt);
@@ -867,9 +904,9 @@ const K=(t,c)=>`<span class="kb${c?" "+c:""}">${t}</span>`;
 const GUIDE=[
  {t:"開始之前",s:"先認識畫面，紅框就是要看、要按的地方",f:[
   ["右上角選「操作人」",`點 ${K("操作人？")} 選你自己，選一次就會記住。名單沒有你就按旁邊 ${K("⚙")} 新增。`,0,"g01"],
-  ["看行事曆和兩格待辦",`行事曆上的小數字＝那天到期的批數（棕＝巧克力、藍＝菸、金＝條碼申請截止）。下面金色格＝要申請屆期條碼、紅色格＝該下架，點下去直接處理。`,0,"g02"],
+  ["看「今日任務」和行事曆",`最上面三格是今天要做的：金＝申請屆期條碼、紅＝該下架、綠＝每日回報，點下去直接處理。行事曆平常收成一週，按 ${K("▼ 展開整月")} 看整個月；小數字＝那天到期的批數。`,0,"g02"],
   ["下方 7 個功能鍵",`${K("登錄")}${K("條碼")}${K("下架")}${K("盤點")}${K("訊息")}${K("紀錄")}${K("匯出")}，點了會在功能列下方展開。`,0,"g03"],
-  ["看清單",`左 07 巧克力、右 08 菸類。每批下面有快速鍵：${K("−1","t")} 賣出、${K("條碼✓")} 已申請、${K("下架","r")}。點品名可以修改。`,1,"g12"]]},
+  ["看清單",`手機上用分頁切換 ${K("07 巧克力")}／${K("08 菸類")}。每批下面有快速鍵：${K("−1","t")} 賣出、${K("條碼✓")} 已申請、${K("下架","r")}。點品名可以修改。`,1,"g12"]]},
  {t:"登錄效期",s:"新貨上架、發現短效期品時",f:[
   ["按功能列「登錄」","",0,"g03"],
   ["選店別、大類",`${K("2140","t")} 或 ${K("2153","r")}；${K("07 巧克力")} 或 ${K("08 菸類")}`,0,"g04"],
@@ -879,12 +916,12 @@ const GUIDE=[
   ["接著登下一批，全部登完按「存入並關閉」",`店別、效期會保留，下面列出這次登了哪些。同店同品項同效期已經有的，會問你要不要 ${K("合併")}。`,1,"g08"]]},
  {t:"屆期條碼申請",s:"到期前 3、2、1 個月各申請一次，進入前一週要申請好",f:[
   ["點金色待辦「批要申請屆期條碼」",`或按功能列 ${K("條碼")}。紅底「逾期」＝已經進入該月份還沒申請。`,0,"g09"],
-  ["勾選已經申請好的批次","依「進入 3／2／1 個月」分組，可以全選。",0,"g10"],
-  ["確認申請人，按「確認已申請」","申請人預設是右上角的操作人。按錯了在下方「最近已申請」按兩次復原。",1,"g11"],
+  ["每列按「已申請」一鍵完成",`也可以勾選多批再按「確認已申請」。都會記在右上角操作人名下。`,0,"g10"],
+  ["批次處理：勾選後按「確認已申請」","按錯了底部 6 秒內可「復原」，或在下方「最近已申請」按兩次復原。",1,"g11"],
   ["（更快）清單上直接按「條碼✓」","一批一批處理時用這個，按完 6 秒內底部可以「復原」。",0,"g12"]]},
  {t:"下架",s:"巧克力距效期 40 天下架（GODIVA、神戶風月堂 30 天）",f:[
   ["點紅色待辦「批該下架」",`或按功能列 ${K("下架")}，可以切「全部品項」手動下架。`,0,"g02"],
-  ["勾選、選下架人，按「確認下架」","下架錯了在下方「最近下架」按兩次復原。",1,"g13"],
+  ["每列按「下架」，或勾選後按「確認下架」","每列的「下架」要按兩次才會下架。下架錯了在下方「最近下架」按兩次復原。",1,"g13"],
   ["（更快）清單上紅色「下架」",`按一下變「確認下架」，再按一次才會下架，防止誤按。`,0,"g14"]]},
  {t:"每日回報（群組訊息）",s:"每天貼到群組的屆期回報",f:[
   ["按「訊息」，選每日回報和範圍","上到下：每日回報／條碼申請提醒、店別、香煙或巧克力、一～三個月內。",0,"g15"],
@@ -895,7 +932,7 @@ const GUIDE=[
   ["要修改：點品名，改完按「存修改」",`可以改店別、效期、數量、售價、折扣。效期一樣直接打數字。最下面 ${K("刪除這批","r")} 要按兩次，刪完也能復原。`,1,"g19"]]},
  {t:"盤點",s:"定期核對帳上數量",f:[
   ["按「盤點」，每批會多一個數量格","輸入實際點到的數量，有改的會變黃，旁邊顯示帳上數量。",0,"g20"],
-  ["確認盤點人，按「存盤點」","差異會寫進「紀錄」；帳實相符也會記一筆。",1,"g21"]]},
+  ["按「存盤點」","記在右上角操作人名下；差異會寫進「紀錄」，帳實相符也會記一筆。",1,"g21"]]},
  {t:"設定人員名單",s:"右上角 ⚙，所有人共用",f:[
   ["按 ⚙，新增、排序、刪除人名",`打名字按 ${K("＋")} 新增；↑↓ 調順序，常用的放前面；刪除要按兩次。這份名單會出現在操作人和所有「○○人」的下拉選單。`,1,"g22"]]}
 ];
@@ -916,7 +953,7 @@ function renderGuide(){
   $("#gnext").onclick=()=>{if(gi<GUIDE.length-1){gi++;renderGuide();$(".gbody").scrollTop=0}else closeGuide()};
 }
 function openGuide(i){gi=i||0;renderGuide();$("#guide").classList.add("on");document.body.style.overflow="hidden"}
-function closeGuide(){$("#guide").classList.remove("on");document.body.style.overflow="";try{localStorage.setItem("sa_exp_guide_v2","1")}catch(e){}if(!lastBy)setTimeout(()=>{toast("先在右上角選操作人");const w=$("#who");w.classList.add("need")},300)}
+function closeGuide(){$("#guide").classList.remove("on");document.body.style.overflow="";try{localStorage.setItem("sa_exp_guide_v3","1")}catch(e){}if(!lastBy)setTimeout(()=>{toast("先在右上角選操作人");const w=$("#who");w.classList.add("need")},300)}
 $("#help").onclick=()=>openGuide(0);
 
 /* ---------- 設定：人員名單 ---------- */
@@ -949,7 +986,7 @@ $("#setb").onclick=settingsPanel;
 
 const WHO=$("#who");fillWho();WHO.classList.toggle("need",!lastBy);WHO.onchange=()=>{remember(WHO.value);toast(WHO.value?"操作人："+WHO.value:"已清除操作人")};
 render();
-try{if(!localStorage.getItem("sa_exp_guide_v2"))openGuide(0)}catch(e){}
+try{if(!localStorage.getItem("sa_exp_guide_v3"))openGuide(0)}catch(e){}
 </script>
 </body>
 </html>
